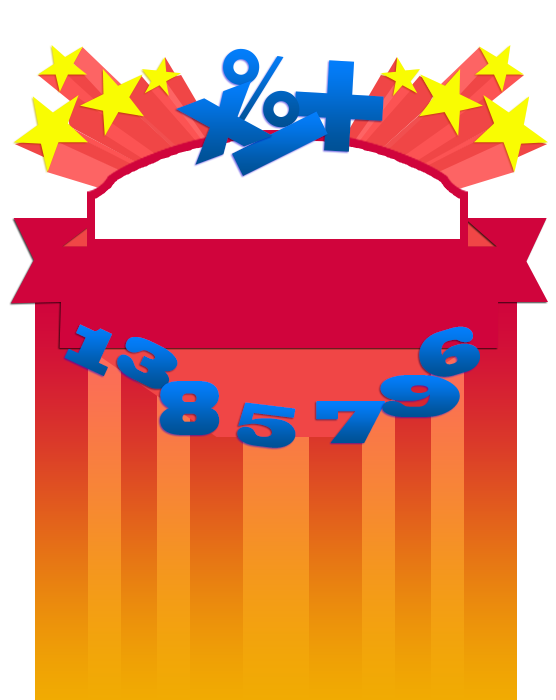
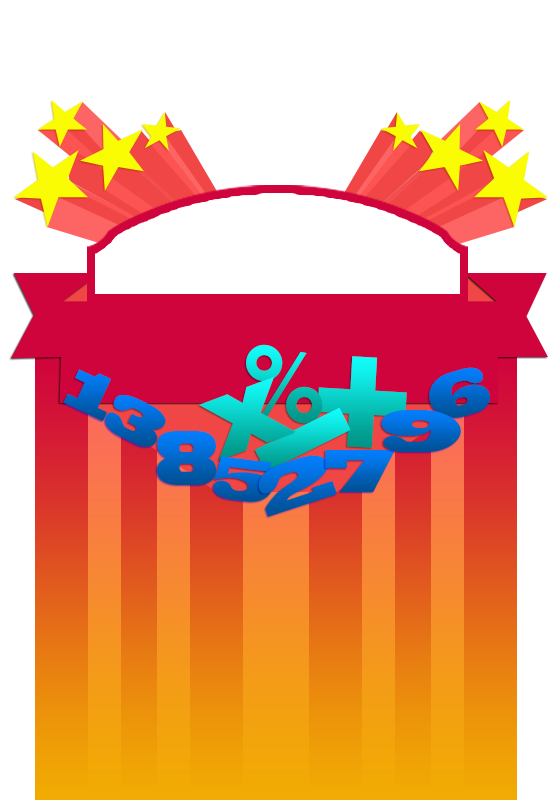
bg should be perfect commit always
hayyyyyyyyyyyyyy

Changed region(s): [[0.0, 0.06, 1.0, 0.45], [0.0917, 0.42, 0.8867, 0.66]]

diff --git a/index.html b/index.html
@@ -212,9 +212,7 @@ $("#regpicture").slideUp();
 <body onLoad="changeeye(); load(); changefact(); changebluff();">
 
 <div data-role="page" id="mainpage" class="content" style="background-color: #f1ab02;">
- <div data-role="header" data-theme="a"  align="center" data-position="fixed" style="height:10%;">
- <img src="images/header.png" height="100%" width="80%" />
- </div>
+
 <div data-role="content" align="center" >
 
 
